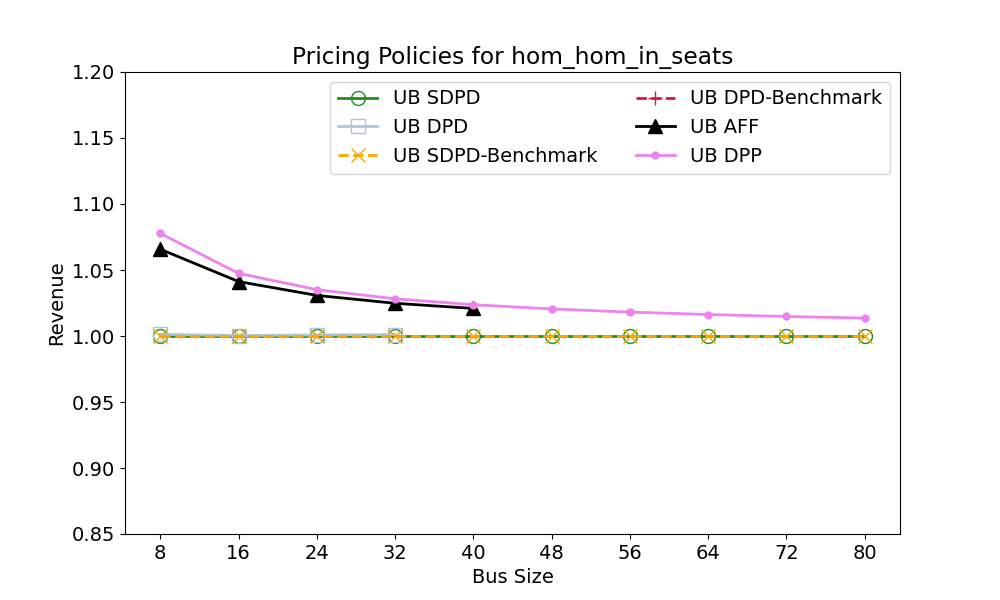
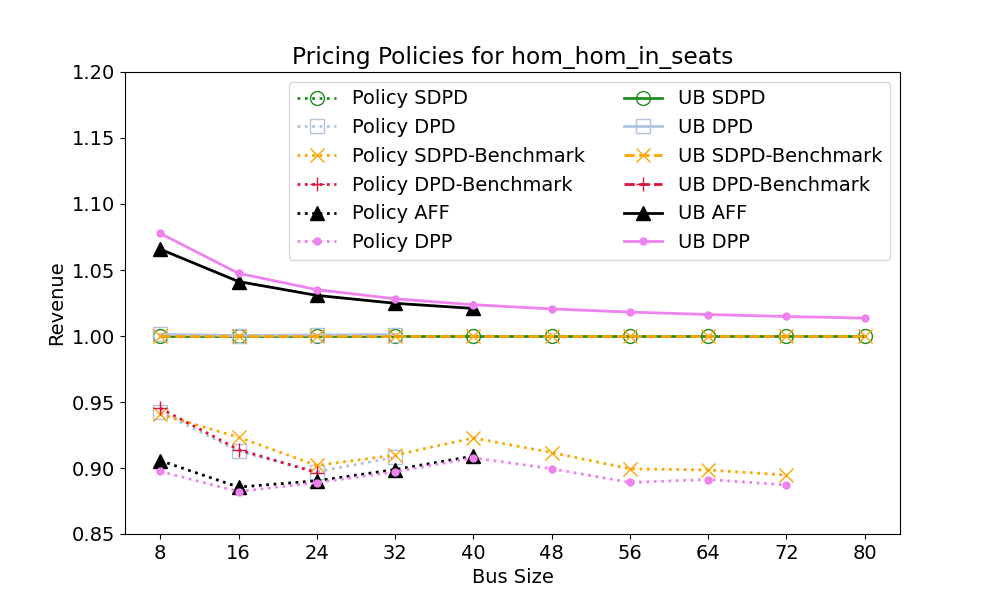
changed the plotting file for simulations

diff --git a/revision/decomposition_plot.py b/revision/decomposition_plot.py
@@ -1,5 +1,6 @@
 import matplotlib.pyplot as plt
 import numpy as np
+import os
 x=[8,16,24,32,40,48,56,64,72,80]
 
 #This plot is used to generate graphs for the submitted paper
@@ -18,6 +19,79 @@ def check(a):
     a=fill(a)
     return a
 
+def read_DLP(choice):
+    DLP=[]
+    directory = "revision/results/DLP"
+    for c in range(8,81,8):
+        full_path = directory + "/"+str(choice)+str(c)+"CRN.txt"
+        if not os.path.exists(full_path):
+            DLP_simu=fill(DLP)
+            return DLP_simu
+        DLP_c=np.mean(np.loadtxt(full_path))
+        DLP=DLP+[DLP_c]
+    return DLP
+
+def read_ALP(choice):
+    ALP=[]
+    directory = "revision/results/ADP"
+    for c in range(8,81,8):
+        full_path = directory + "/"+str(choice)+str(c)+"CRN.txt"
+        if not os.path.exists(full_path):
+            ALP_simu=fill(ALP)
+            return ALP_simu
+        ALP_c=np.mean(np.loadtxt(full_path))
+        ALP=ALP+[ALP_c]
+    return ALP
+
+def read_SBD(choice):
+    SBD=[]
+    directory = "revision/results/SBD"
+    for c in range(8,81,8):
+        full_path = directory + "/"+str(choice)+str(c)+"CRN.txt"
+        if not os.path.exists(full_path):
+            SBD_simu=fill(SBD)
+            return SBD_simu
+        SBD_c=np.mean(np.loadtxt(full_path))
+        SBD=SBD+[SBD_c]
+    return SBD
+
+def read_SBD_ke(choice):
+    SBD_ke=[]
+    directory = "revision/results/SBD_ke"
+    for c in range(8,81,8):
+        full_path = directory + "/"+str(choice)+str(c)+"CRN.txt"
+        if not os.path.exists(full_path):
+            SBD_ke_simu=fill(SBD_ke)
+            return SBD_ke_simu
+        SBD_ke_c=np.mean(np.loadtxt(full_path))
+        SBD_ke=SBD_ke+[SBD_ke_c]
+    return SBD_ke
+
+def read_DBD(choice):
+    DBD=[]
+    directory = "revision/results/DBD"
+    for c in range(8,81,8):
+        full_path = directory + "/"+str(choice)+str(c)+"CRN.txt"
+        if not os.path.exists(full_path):
+            DBD_simu=fill(DBD)
+            return DBD_simu
+        DBD_c=np.mean(np.loadtxt(full_path))
+        DBD=DBD+[DBD_c]
+    return DBD
+
+def read_DBD_ke(choice):
+    DBD_ke=[]
+    directory = "revision/results/DBD_ke"
+    for c in range(8,81,8):
+        full_path = directory + "/"+str(choice)+str(c)+"CRN.txt"
+        if not os.path.exists(full_path):
+            DBD_ke_simu=fill(DBD_ke)
+            return DBD_ke_simu
+        DBD_ke_c=np.mean(np.loadtxt(full_path))
+        DBD_ke=DBD_ke+[DBD_ke_c]
+    return DBD_ke
+
+
 width=2
 marksize=10
 plt.rcParams['font.size'] = 14
@@ -30,18 +104,18 @@ SBDb_UB=np.array([68.6715819035891,158.999831998647,258.879837610151,365.6295349
 DBDb_UB=fill(np.array([]))
 aALP=fill(np.array([73.1648187824978,165.481227121692,266.64690363421,374.280216708899,487.151061348171]))#done,7
 DLPflex=fill(np.array([73.9884542687187,166.498083154143,267.895439478212,375.836449240972,489.179553435683,607.248130545888,729.586667194739,855.865528932043,985.835661228318,1119.30166244716]))#done,10 #done
-'''
-SBD_simu=fill(np.array([64.45809368804186,143.3558442032371,227.64853806529132,323.2557729131836,426.1535249589765,522.8804291843757,617.4411673390339,719.2647080306211,819.6401945886668,933.0951726028303]))#done,10 #done
-SBD_ke_simu=fill(np.array([64.13492400371939,144.6330699263746,228.88853776814994,323.9639818161254,427.02098641286875,523.9407636260163,615.945781929311,721.1228944880239,823.4462667699713]))#done,10 #done
-DBD_simu=fill(np.array([64.45809051095915,143.35673062213235,227.62414229682327,323.6187261277688,426.93141009009065,522.5696358501605]))
-DBD_ke_simu=fill(np.array([64.45641323136032,143.43540471957166,225.21941510947264,323.5581634821159]))
-aALP_simu=fill(np.array([61.78427238957758, 138.61018319345382,226.14938995316416, 320.5578006315373, 421.05821247178477, 516.9756549928264]))
-sbADP_simu=fill(np.array([64.24429505,143.5083651,207.1127125,303.1144468,488.4390255,702.6241617,598.6003484,805.3462068]))#done,10 #done
-DLP_simu=fill(np.array([61.42340582807179,138.77384748603984,225.31256181267935,319.40060639730126,419.9542325879878,515.679796399494,611.4473875845814,715.54296515527,814.386362157405,924.9763364853288])) #done
-'''
+
+SBD_simu=read_SBD(4)
+SBD_ke_simu=read_SBD_ke(4)
+DBD_simu=read_DBD(4)
+DBD_ke_simu=read_DBD_ke(4)
+aALP_simu=read_ALP(4)
+#sbADP_simu=fill(np.array([64.24429505,143.5083651,207.1127125,303.1144468,488.4390255,702.6241617,598.6003484,805.3462068]))#done,10 #done
+DLP_simu=read_DLP(4)
+
 #pricing policies
 plt.figure(figsize=(10, 6))
-'''
+
 plt.plot(x, SBD_simu/SBD_UB, label='Policy SDPD',color='forestgreen', marker='o',markerfacecolor='none', linestyle=':', linewidth=width, markersize=marksize)
 plt.plot(x, DBD_simu/SBD_UB, label='Policy DPD',color='lightsteelblue', marker='s',markerfacecolor='none', linestyle=':', linewidth=width, markersize=marksize)
 plt.plot(x, SBD_ke_simu/SBD_UB, label='Policy SDPD-Benchmark',color='orange', marker='x', markerfacecolor='none',linestyle=':', linewidth=width, markersize=marksize)
@@ -49,7 +123,7 @@ plt.plot(x, DBD_ke_simu/SBD_UB, label='Policy DPD-Benchmark',color='crimson', ma
 plt.plot(x, aALP_simu/SBD_UB, label='Policy AFF',color='black', marker='^', linestyle=':', linewidth=width, markersize=marksize)
 plt.plot(x,DLP_simu/SBD_UB,label='Policy DPP',color='violet', marker='.', linestyle=':', linewidth=width, markersize=marksize)
 #plt.plot(x, sbADP_simu/SBD_UB, label='Policy sbADP (M=100)',color='salmon', marker='<', linestyle=':', linewidth=width, markersize=marksize)
-'''
+
 plt.plot(x, SBD_UB/SBD_UB, label='UB SDPD',color='forestgreen', marker='o',markerfacecolor='none',linestyle='-', linewidth=width, markersize=10)
 plt.plot(x, DBD_UB/SBD_UB, label='UB DPD',color='lightsteelblue', marker='s', markerfacecolor='none',linestyle='-', linewidth=width, markersize=10)
 plt.plot(x, SBDb_UB/SBD_UB, label='UB SDPD-Benchmark',color='orange', marker='x',markerfacecolor='none', linestyle='--', linewidth=width, markersize=10)
@@ -58,7 +132,7 @@ plt.plot(x, aALP/SBD_UB, label='UB AFF',color='black', marker='^', linestyle='-'
 plt.plot(x, DLPflex/SBD_UB, label='UB DPP',color='violet', marker='.', linestyle='-', linewidth=width, markersize=10)
 
 plt.xticks(x)
-plt.ylim(0.85, 1.2)
+plt.ylim(0.75, 1.2)
 plt.xlabel('Bus Size',fontsize=14)
 plt.ylabel('Revenue',fontsize=14)
 plt.title('Pricing Policies for hom_de_in_seats')
@@ -73,18 +147,18 @@ SBDb_UB=fill(np.array([68.2417792891811,157.125405898257,254.399615042252,357.28
 DBDb_UB=fill(np.array([]))
 aALP=fill(np.array([72.7291883494042,163.607569896348,262.224464801718,366.138918220246,474.135437089136]))
 DLPflex=fill(np.array([73.5463378022181,164.584524119174,263.334627070838,367.358251532822,475.438554594031,586.835307110368,701.047417623319,817.712069915188,936.553783880678,1057.3559761638]))
-'''
-SBD_simu=fill(np.array([64.91859205342483,144.44060081632043,231.96201179271165,330.32877287934826,439.8849827504754,540.5428376987037,642.7059835868749,753.1165448065798,864.2548956512823,988.4190725847928]))
-SBD_ke_simu=fill(np.array([64.27717819255412,145.93353891466737,232.72466824411995,331.83877206044866,439.6551335279278,542.007203892988,641.6674102498348,756.5277381765294,866.123581246961,990.1219900151912]))
-DBD_simu=fill(np.array([64.90404381916471,144.70667822365897,232.03290941674229,330.4564738149191,440.15818282369617]))
-DBD_ke_simu=fill(np.array([64.80777907288238,144.80001390304696,228.9944048354347,330.5568757934293]))
-aALP_simu=fill(np.array([62.086445641567764,140.7567224599399,229.70741491852507,327.59495025447677,432.14190889441284]))
-sbADP_simu=fill(np.array([49.78824925,145.3247069,213.2878257,313.8770599,484.9166528,620.5563582,693.5898398,578.9596915]))
-DLP_simu=fill(np.array([61.82121816182555,140.3993730896393,229.28901692312252,326.9326027370243,431.84158643394056,533.1170004257158,637.013406882737,748.578756606833,857.3097408468957,978.5052961735919]))
-'''
+
+SBD_simu=read_SBD(5)
+SBD_ke_simu=read_SBD_ke(5)
+DBD_simu=read_DBD(5)
+DBD_ke_simu=read_DBD_ke(5)
+aALP_simu=read_ALP(5)
+#sbADP_simu=fill(np.array([49.78824925,145.3247069,213.2878257,313.8770599,484.9166528,620.5563582,693.5898398,578.9596915]))
+DLP_simu=read_DLP(5)
+
 
 plt.figure(figsize=(10, 6))
-'''
+
 plt.plot(x, SBD_simu/SBD_UB, label='Policy SDPD',color='forestgreen', marker='o',markerfacecolor='none', linestyle=':', linewidth=width, markersize=marksize)
 plt.plot(x, DBD_simu/SBD_UB, label='Policy DPD',color='lightsteelblue', marker='s',markerfacecolor='none', linestyle=':', linewidth=width, markersize=marksize)
 plt.plot(x, SBD_ke_simu/SBD_UB, label='Policy SDPD-Benchmark',color='orange', marker='x', markerfacecolor='none',linestyle=':', linewidth=width, markersize=marksize)
@@ -92,7 +166,7 @@ plt.plot(x, DBD_ke_simu/SBD_UB, label='Policy DPD-Benchmark',color='crimson', ma
 plt.plot(x, aALP_simu/SBD_UB, label='Policy AFF',color='black', marker='^', linestyle=':', linewidth=width, markersize=marksize)
 plt.plot(x,DLP_simu/SBD_UB,label='Policy DPP',color='violet', marker='.', linestyle=':', linewidth=width, markersize=marksize)
 #plt.plot(x, sbADP_simu/SBD_UB, label='Policy sbADP (M=500)',color='salmon', marker='<', linestyle=':', linewidth=width, markersize=marksize)
-'''
+
 plt.plot(x, SBD_UB/SBD_UB, label='UB SDPD',color='forestgreen', marker='o',markerfacecolor='none',linestyle='-', linewidth=width, markersize=10)
 plt.plot(x, DBD_UB/SBD_UB, label='UB DPD',color='lightsteelblue', marker='s', markerfacecolor='none',linestyle='-', linewidth=width, markersize=10)
 plt.plot(x, SBDb_UB/SBD_UB, label='UB SDPD-Benchmark',color='orange', marker='x',markerfacecolor='none', linestyle='--', linewidth=width, markersize=10)

diff --git a/revision/ADP_simu.py b/revision/ADP_simu.py
@@ -214,7 +214,7 @@ for j in range(1,6):
             rand=random[:,i]
             results[i-num_sim]=Simulation(rand)
 
-        directory = "simu_results/DLP"
+        directory = "results/ADP"
         os.makedirs(directory, exist_ok=True)
         full_path = directory + "/"+str(choice)+str(c)+"CRN.txt"
         np.savetxt(full_path, results)
